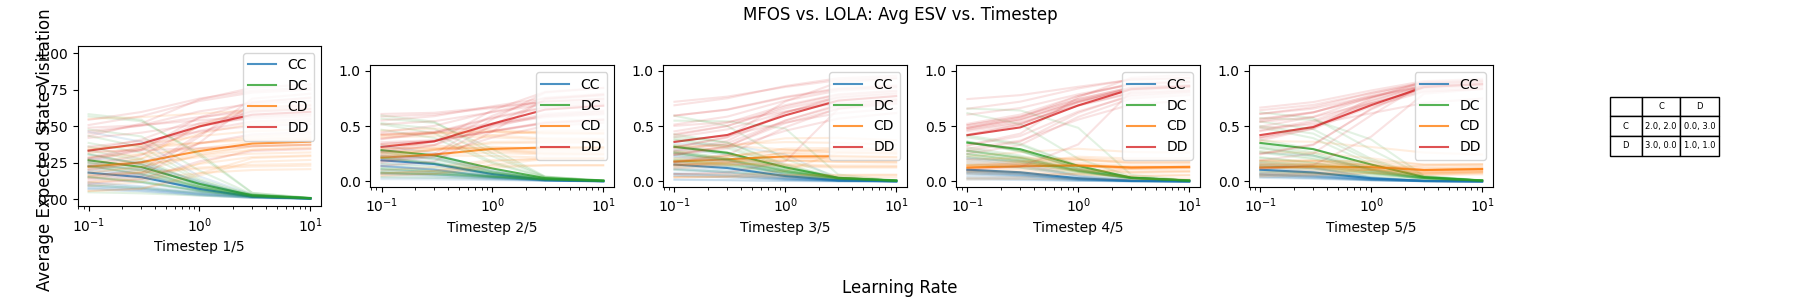
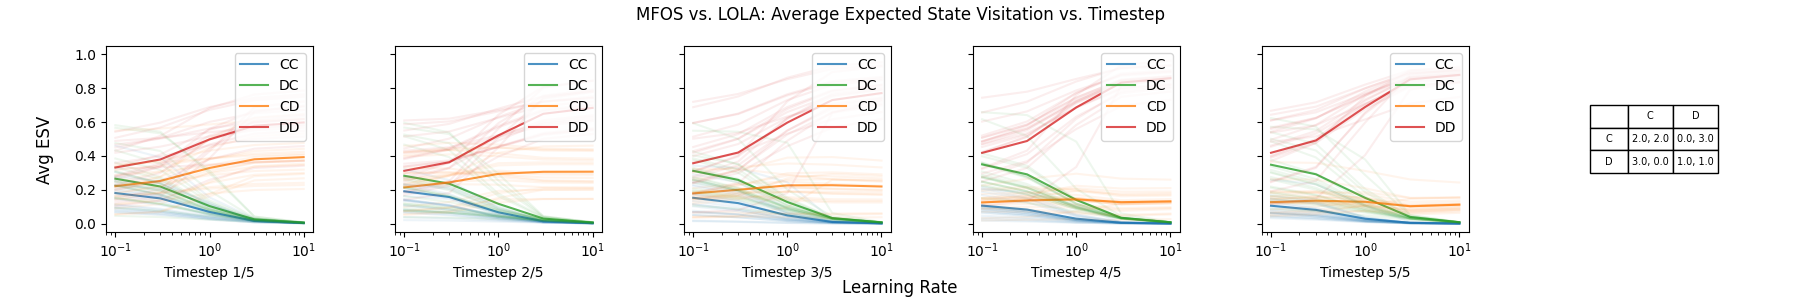
mfoses

diff --git a/src/plot/mfoslresv.py b/src/plot/mfoslresv.py
@@ -6,7 +6,7 @@ from matplotlib import cycler
 import argparse
 
 parser = argparse.ArgumentParser()
-parser.add_argument("--folder", type=str, default="/runs/delmac")
+parser.add_argument("--folder", type=str, default="/runs/G3multimfospt2")
 args = parser.parse_args()
 
 # Load the JSON file
@@ -32,7 +32,10 @@ for combo in player_combos:
     # Extract learning rates
     lrs = [d["lr"] for d in combo_data]
 
-    fig, axes = plt.subplots(1, 6, figsize=(18, 3))
+    fig, axes = plt.subplots(1, 6, figsize=(18, 3), sharey=True)
+
+    for ax in axes:
+        ax.set_aspect(1.8)
 
     for game_idx in range(5):  # Assuming there are always 5 logs in five_game_logs
         avg_ms = [np.array(d["five_game_logs"][game_idx]["avg_Ms"]) for d in combo_data]
@@ -78,17 +81,17 @@ for combo in player_combos:
                 lrs,
                 [state_esv[:, i] for state_esv in state_esvs],
                 label=states[i],
-                alpha=0.13,
+                alpha=0.08,
                 color=colors[i],
             )
         axes.flatten()[game_idx].set_xscale("log")
-        axes.flatten()[game_idx].set_xlabel(f"Timestep {game_idx+1}/5")
+        axes.flatten()[game_idx].set_xlabel(f"Timestep {game_idx + 1}/5")
         axes.flatten()[game_idx].set_ylim(-0.05, 1.05)
 
     # set x and y labels for the overall plot
     fig.supxlabel("Learning Rate")
-    fig.supylabel("Average Expected State Visitation")
-    fig.suptitle(f"{p1} vs. {p2}: Avg ESV vs. Timestep")
+    fig.supylabel("Avg ESV")
+    fig.suptitle(f"{p1} vs. {p2}: Average Expected State Visitation vs. Timestep")
 
     axes.flatten()[-1].axis("off")
     # Add payoff matrices to the plot
@@ -111,7 +114,7 @@ for combo in player_combos:
         cellText=payoff_data,
         cellLoc="center",
         loc="center",
-        colWidths=[0.2, 0.24, 0.24],
+        colWidths=[0.4, 0.48, 0.48],
     )
     table.scale(1, 1.7)  # Adjust the size of the payoff matrices
     table.set_fontsize(13)  # Adjust the font size of the payoff matrices
